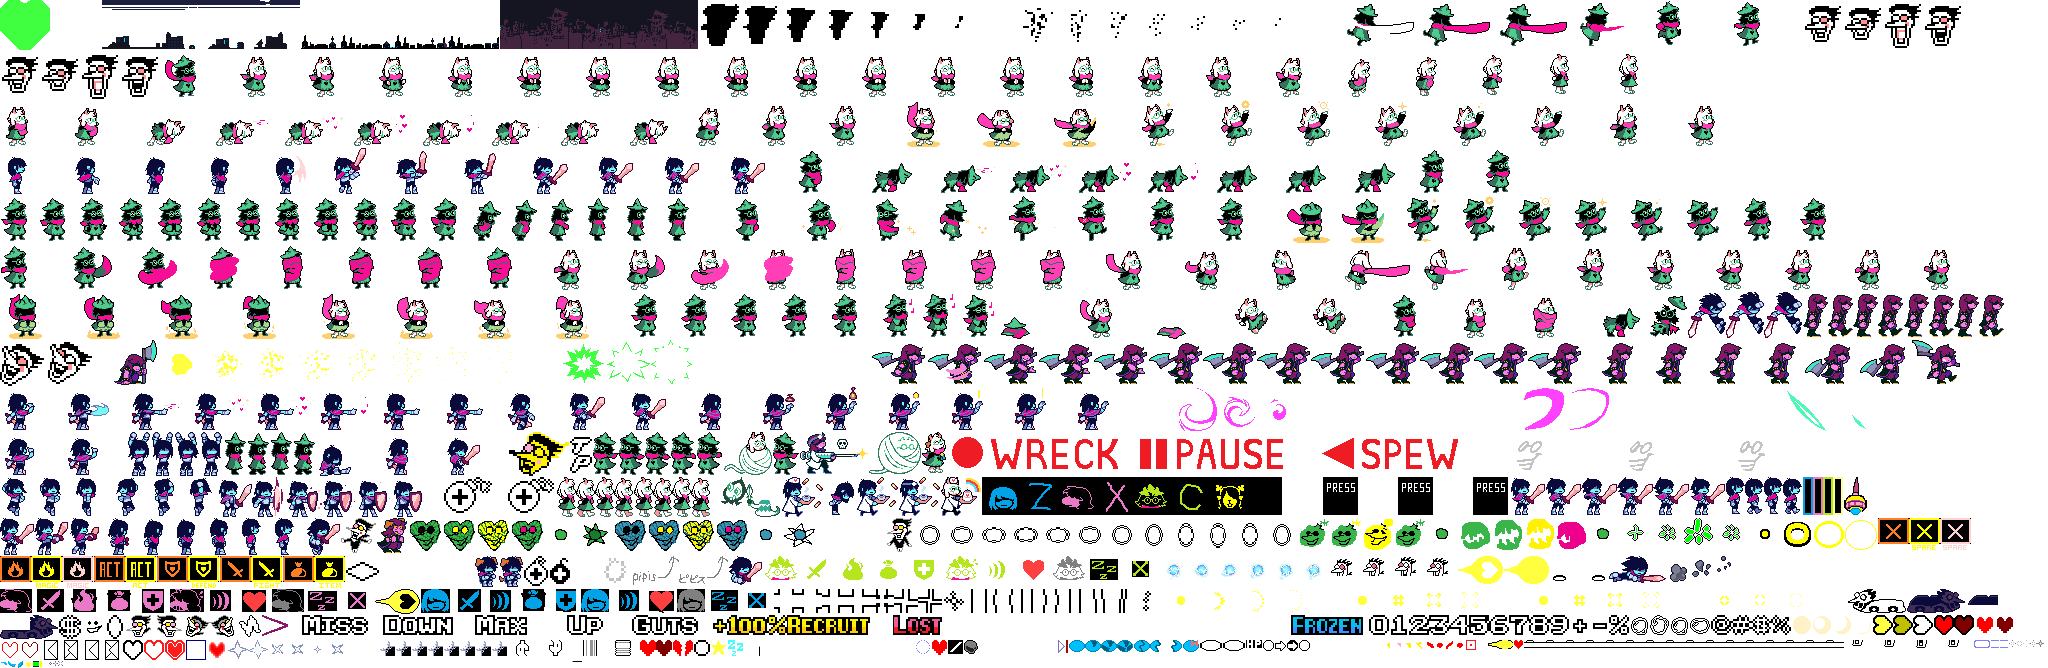
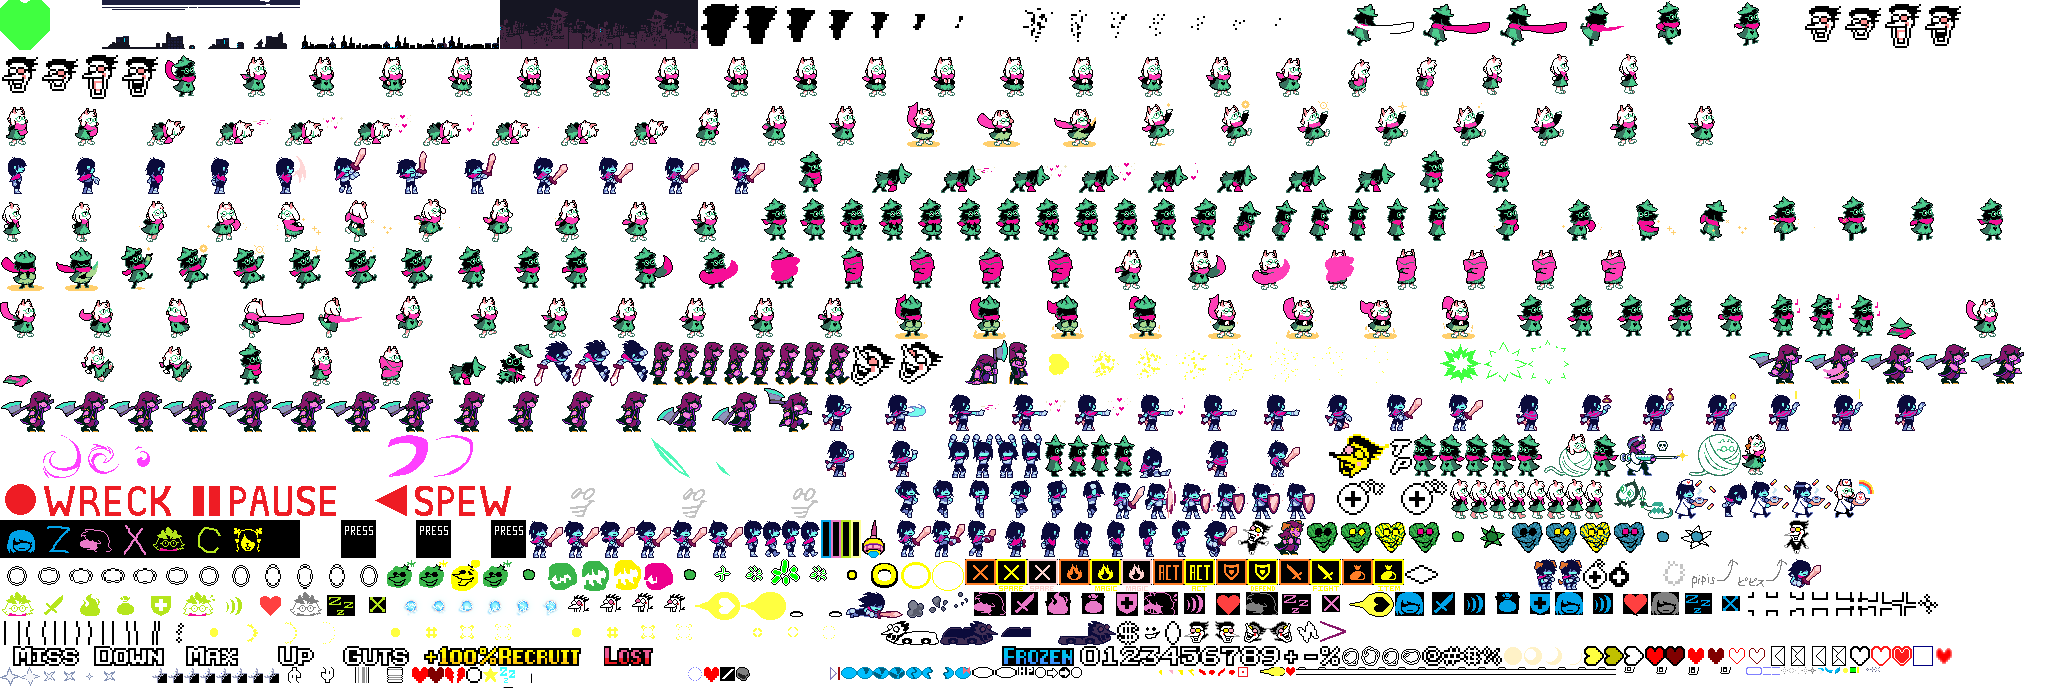
Start the Spamton NEO battle like the original
- Ralsei spins in with his Chapter 2 battle intro (no hat) instead of the
  Chapter 1 sprite, which flashed him dark.
- Susie jumps in with spr_susier_wall, as obj_encounterbasic does in Chapter 2.
- The city, tracks and cars are there from the first frame, Spamton NEO is
  already on screen (the battle reuses him, as scr_battle does), and the party
  starts in their coaster seats with counttimer = 9, as obj_ch2_sceneex2 sets it.
- The cars ride along with their heroes during the intro.

diff --git a/src/battle/setup.js b/src/battle/setup.js
@@ -4,11 +4,11 @@
 import {
   global, G, Instance, defineObject, defineScript, S, instance_create, room_reset, objectExists,
   font_add_sprite_ext,
-} from '../runtime/gm.js?v=20261106195344';
-import { snd_free_all, snd_init } from '../runtime/audio.js?v=20261106195344';
-import { WEAPONS, ARMORS, ARMOR_ELEMENTS, BASE_STATS, getLoadout } from './equipment.js?v=20261106195344';
-import { arr, arr2, view_x, view_y, splitCaller } from './common.js?v=20261106195344';
-import { registerBackground } from './misc.js?v=20261106195344';
+} from '../runtime/gm.js?v=20261106201714';
+import { snd_free_all, snd_init } from '../runtime/audio.js?v=20261106201714';
+import { WEAPONS, ARMORS, ARMOR_ELEMENTS, BASE_STATS, getLoadout } from './equipment.js?v=20261106201714';
+import { arr, arr2, view_x, view_y, splitCaller } from './common.js?v=20261106201714';
+import { registerBackground } from './misc.js?v=20261106201714';
 
 function scr_gamestart() {
   global.chapter = 2;
@@ -397,7 +397,10 @@ defineScript('scr_monster_makeinstance', (m) => {
   g.monster[m] = 1;
   const old = g.monsterinstance[m];
   if (old && old.alive) old.alive = false;
-  const inst = instance_create(g.monstermakex[m], g.monstermakey[m], g.monsterinstancetype[m]);
+  // scr_battle(61, 1, sneo, ...) hands the battle the Spamton NEO already on screen: reuse it.
+  const waiting = G.instances.find(o => o.alive && o.waitingForBattle && o.constructor.objName === g.monsterinstancetype[m]);
+  if (waiting) waiting.waitingForBattle = false;
+  const inst = waiting || instance_create(g.monstermakex[m], g.monstermakey[m], g.monsterinstancetype[m]);
   g.monsterinstance[m] = inst;
   inst.myself = m;
   if (inst.user12) inst.user12();
@@ -478,8 +481,9 @@ class ObjTime extends Instance {
 }
 defineObject('obj_time', ObjTime);
 
-// Overworld spots the party stands on when the battle starts (they jump into battle positions).
-const INTRO_START = [[150, 130], [112, 168], [92, 214]];
+// Where the party sits when the battle starts: obj_ch2_sceneex2 puts the coasters at
+// (1721, 60), (1718, 125) and (1727, 215) with Ralsei's character_offset_x -10.
+const INTRO_START = [[81, 60], [78, 125], [77, 210]]; // the coasters' seats (camera at x 1640)
 
 // Starts a fresh Spamton NEO fight: opts.intro = false skips the encounter transition.
 export function startBattle(opts = {}) {
@@ -495,6 +499,9 @@ export function startBattle(opts = {}) {
     global.tempflag[37] = G.sneoGameovers || 0; // game overs this session (obj_spamton_neo_enemy Other_14)
   }
   instance_create(0, 0, 'obj_time');
+  // The party is still riding the coaster through the city when the battle starts, so the
+  // backdrop (and the cars) are there from the first frame of the intro.
+  instance_create(0, 0, 'obj_ch2_sceneex2').cityscape_alpha = 1;
   if (G.settings?.simplify) global.flag[8] = 1;
   global.introx = INTRO_START.map(p => p[0]);
   global.introy = INTRO_START.map(p => p[1]);
@@ -502,7 +509,13 @@ export function startBattle(opts = {}) {
     S.scr_encountersetup(global.encounterno);
     instance_create(0, 0, 'obj_battlecontroller');
   } else {
-    instance_create(0, 0, 'obj_encounterbasic');
+    const enc = instance_create(0, 0, 'obj_encounterbasic');
+    // obj_ch2_sceneex2 starts the battle with the party already in their cars: counttimer = 9
+    // leaves one frame of the jump before the attack / spin poses, and Spamton NEO is already there.
+    enc.counttimer = 9;
+    const sneo = instance_create(global.monstermakex[0], global.monstermakey[0], global.monsterinstancetype[0]);
+    sneo.myself = 0;
+    sneo.waitingForBattle = true;
   }
   G.battleStarted = G.frame;
 }

diff --git a/src/sneo/enemy.js b/src/sneo/enemy.js
@@ -6,14 +6,14 @@
 import {
   G, global, Instance, defineObject, instance_create, instance_destroy, instance_exists, instancesOf,
   choose, random, irandom, merge_color, draw_sprite_ext, d3d_set_fog, button3_p, snd_play, snd_stop, bgr, S,
-} from './rt.js?v=20261106195344';
-import { first, camerax, cameray, i_ex, callOr, tagParent, snd_play_x } from './common.js?v=20261106195344';
-import { scr_bulletspawner } from './dbullet.js?v=20261106195344';
+} from './rt.js?v=20261106201714';
+import { first, camerax, cameray, i_ex, callOr, tagParent, snd_play_x } from './common.js?v=20261106201714';
+import { scr_bulletspawner } from './dbullet.js?v=20261106201714';
 import {
   objectExists, sprite_get_xoffset, sprite_get_yoffset, point_distance, lerp, draw_set_color, draw_set_alpha,
   draw_line_width, make_color_rgb, point_direction, lengthdir_x, lengthdir_y, draw_circle, random_range, clamp,
-} from '../runtime/gm.js?v=20261106195344';
-import { snd_init, snd_loop, snd_pitch, snd_volume, mus_loop_ext, mus_stop, snd_is_playing } from '../runtime/audio.js?v=20261106195344';
+} from '../runtime/gm.js?v=20261106201714';
+import { snd_init, snd_loop, snd_pitch, snd_volume, mus_loop_ext, mus_stop, snd_is_playing } from '../runtime/audio.js?v=20261106201714';
 
 const snd_free = s => { if (s) mus_stop(s); };
 const sneoInst = () => first('obj_spamton_neo_enemy');
@@ -1417,8 +1417,18 @@ class CoasterHero extends Instance {
     // The car is drawn whether or not its hero is: Rude Buster and the spells hide the hero
     // while their own animation stands in for them.
     const h = first(HERO_OBJ[this.HeroID]);
-    this.visible = !!h;
-    if (!h) return;
+    if (!h) {
+      // The encounter intro (lerpstate 0): the car pulls out of the coaster into its battle spot
+      // while its hero jumps there, so it rides along under obj_encounterbasic's marker.
+      const m = first('obj_encounterbasic')?.c?.[this.HeroID];
+      this.visible = !!m && m.alive;
+      if (!this.visible) return;
+      this.x = m.x + CAR_DX[this.HeroID];
+      this.y = m.y + CAR_Y[this.HeroID] - global.heromakey[this.HeroID];
+      this.depth = m.depth - 1;
+      return;
+    }
+    this.visible = true;
     this.x = h.x + CAR_DX[this.HeroID];
     this.y = CAR_Y[this.HeroID];
     this.depth = [80, 75, 70][this.HeroID];

diff --git a/src/main.js b/src/main.js
@@ -1,13 +1,13 @@
-import { loadAssets, loadAudioInBackground } from './runtime/assets.js?v=20261106195344';
-import { audioInit, audioPreload, audioState } from './runtime/audio.js?v=20261106195344';
-import * as gm from './runtime/gm.js?v=20261106195344';
-import { G } from './runtime/gm.js?v=20261106195344';
-import { setupTouch } from './touch.js?v=20261106195344';
-import { setupFullscreen } from './fullscreen.js?v=20261106195344';
-import { loadSettings, applyVolume } from './settings.js?v=20261106195344';
-import { isPaused, pauseStep, openPause, togglePause, pauseContext } from './pause.js?v=20261106195344';
-import './screens/controls.js?v=20261106195344';
-import './codes.js?v=20261106195344';
+import { loadAssets, loadAudioInBackground } from './runtime/assets.js?v=20261106201714';
+import { audioInit, audioPreload, audioState } from './runtime/audio.js?v=20261106201714';
+import * as gm from './runtime/gm.js?v=20261106201714';
+import { G } from './runtime/gm.js?v=20261106201714';
+import { setupTouch } from './touch.js?v=20261106201714';
+import { setupFullscreen } from './fullscreen.js?v=20261106201714';
+import { loadSettings, applyVolume } from './settings.js?v=20261106201714';
+import { isPaused, pauseStep, openPause, togglePause, pauseContext } from './pause.js?v=20261106201714';
+import './screens/controls.js?v=20261106201714';
+import './codes.js?v=20261106201714';
 
 loadSettings();
 
@@ -96,13 +96,13 @@ function debugKeys() {
 
 async function start() {
   // Registers every ported object and script.
-  await Promise.all([import('./battle/index.js?v=20261106195344'), import('./sneo/index.js?v=20261106195344')]);
+  await Promise.all([import('./battle/index.js?v=20261106201714'), import('./sneo/index.js?v=20261106201714')]);
   const mode = params.has('sandbox') ? 'sandbox' : 'battle';
   if (mode === 'sandbox') {
-    const sb = await import('./debug/sandbox.js?v=20261106195344');
+    const sb = await import('./debug/sandbox.js?v=20261106201714');
     sb.startSandbox(params);
   } else {
-    const title = await import('./screens/title.js?v=20261106195344');
+    const title = await import('./screens/title.js?v=20261106201714');
     title.startTitle();
   }
 }

diff --git a/src/battle/controller.js b/src/battle/controller.js
@@ -7,9 +7,9 @@ import {
   left_p, right_p, up_p, down_p, button1_p, button2_p, string_width, string_hash_to_newline,
   draw_set_color, draw_set_alpha, draw_set_font, draw_set_halign, draw_rectangle, draw_sprite,
   draw_sprite_ext, draw_text, draw_text_colour, draw_text_transformed, draw_line_width,
-} from '../runtime/gm.js?v=20261106195344';
-import { snd_play, snd_volume, snd_pitch, mus_loop_ext } from '../runtime/audio.js?v=20261106195344';
-import { arr, arr2, view_x, view_y, withInst, exists, gmlString, subst, knightEnemy } from './common.js?v=20261106195344';
+} from '../runtime/gm.js?v=20261106201714';
+import { snd_play, snd_volume, snd_pitch, mus_loop_ext } from '../runtime/audio.js?v=20261106201714';
+import { arr, arr2, view_x, view_y, withInst, exists, gmlString, subst, knightEnemy } from './common.js?v=20261106201714';
 
 const sin = Math.sin, cos = Math.cos;
 const g = global;
@@ -1450,7 +1450,8 @@ class EncounterBasic extends Instance {
     const sy = g.introy || g.heromakey;
     this.c[0] = S.scr_dark_marker(sx[0], sy[0], 'spr_kris_sword_jump_down');
     this.count += 1;
-    this.c[1] = S.scr_dark_marker(sx[1], sy[1], 'spr_susier_dark_unhappy');
+    // Chapter 2: Susie's follower sprite is spr_susier_dark, which obj_encounterbasic swaps for spr_susier_wall.
+    this.c[1] = S.scr_dark_marker(sx[1], sy[1], 'spr_susier_wall');
     this.count += 1;
     this.c[2] = S.scr_dark_marker(sx[2], sy[2], 'spr_ralsei_walk_right');
     for (let i = 0; i < this.count + 1; i++) {
@@ -1482,7 +1483,7 @@ class EncounterBasic extends Instance {
           m.image_index = 0;
           if (g.char[i] == 1) m.sprite_index = 'spr_krisb_attack';
           if (g.char[i] == 2) m.sprite_index = g.charweapon[g.char[i]] == 0 ? 'spr_susieb_attack_unarmed' : 'spr_susieb_attack';
-          if (g.char[i] == 3) m.sprite_index = 'spr_ralseib_battleintro';
+          if (g.char[i] == 3) m.sprite_index = 'spr_ralsei_battleintro'; // Chapter 2: no hat
           m.image_speed = 0.5;
         }
         this.fightcon = 2;

diff --git a/src/screens/title.js b/src/screens/title.js
@@ -6,17 +6,17 @@ import {
   draw_sprite_ext, draw_set_color, draw_set_font, draw_set_alpha, draw_rectangle, draw_text, controls,
   draw_set_halign, draw_text_transformed, fa_center, fa_left,
   sprite_get_xoffset, sprite_get_yoffset, draw_line_width,
-} from '../runtime/gm.js?v=20261106195344';
-import { snd_init, snd_play, mus_loop_ext, mus_volume, mus_stop } from '../runtime/audio.js?v=20261106195344';
-import { startBattle } from '../battle/setup.js?v=20261106195344';
-import * as SB from '../debug/sandbox.js?v=20261106195344';
-import { gotoRoom, fadeOut, centerText } from './common.js?v=20261106195344';
-import { saveSettings, applyVolume, getBest } from '../settings.js?v=20261106195344';
-import { HATS, currentHat, drawHat } from '../hats.js?v=20261106195344';
-import { openEquipment } from './equipment.js?v=20261106195344';
-import { openControls, keyName } from './controls.js?v=20261106195344';
-import './gameover.js?v=20261106195344';
-import './ending.js?v=20261106195344';
+} from '../runtime/gm.js?v=20261106201714';
+import { snd_init, snd_play, mus_loop_ext, mus_volume, mus_stop } from '../runtime/audio.js?v=20261106201714';
+import { startBattle } from '../battle/setup.js?v=20261106201714';
+import * as SB from '../debug/sandbox.js?v=20261106201714';
+import { gotoRoom, fadeOut, centerText } from './common.js?v=20261106201714';
+import { saveSettings, applyVolume, getBest } from '../settings.js?v=20261106201714';
+import { HATS, currentHat, drawHat } from '../hats.js?v=20261106201714';
+import { openEquipment } from './equipment.js?v=20261106201714';
+import { openControls, keyName } from './controls.js?v=20261106201714';
+import './gameover.js?v=20261106201714';
+import './ending.js?v=20261106201714';
 
 // Dark panel over the title art, behind the OPTIONS and CONTROLS lists.
 class Panel extends Instance {

diff --git a/src/debug/sandbox.js b/src/debug/sandbox.js
@@ -8,13 +8,13 @@ import {
   instancesOf, event_user, choose, keyboard_check, keyboard_check_pressed, random_set_seed, round, S,
   draw_set_font, draw_set_halign, draw_set_color, draw_set_alpha, draw_rectangle, draw_text, draw_sprite_ext,
   fa_left, fa_center, merge_color, button1_p, vk, draw_self,
-} from '../runtime/gm.js?v=20261106195344';
-import { snd_play, snd_init, mus_loop_ext, mus_stop, snd_stop } from '../runtime/audio.js?v=20261106195344';
-import { audioReady, assets } from '../runtime/assets.js?v=20261106195344';
-import { gotoRoom } from '../screens/common.js?v=20261106195344';
-import { getBest, saveBest } from '../settings.js?v=20261106195344';
-import { drawSoulHat } from '../hats.js?v=20261106195344';
-import { tagParent } from '../sneo/common.js?v=20261106195344';
+} from '../runtime/gm.js?v=20261106201714';
+import { snd_play, snd_init, mus_loop_ext, mus_stop, snd_stop } from '../runtime/audio.js?v=20261106201714';
+import { audioReady, assets } from '../runtime/assets.js?v=20261106201714';
+import { gotoRoom } from '../screens/common.js?v=20261106201714';
+import { getBest, saveBest } from '../settings.js?v=20261106201714';
+import { drawSoulHat } from '../hats.js?v=20261106201714';
+import { tagParent } from '../sneo/common.js?v=20261106201714';
 
 // Spamton NEO's turns in fight order: [rr, difficulty, name, object the attack needs].
 // Only the attacks whose objects are ported are listed (ATTACKS).

diff --git a/src/pause.js b/src/pause.js
@@ -4,10 +4,10 @@ import {
   G, S, defineScript, instance_exists, instancesOf, inputLatch, up_p, down_p, left_p, right_p,
   button1_p, button2_p, pause_p, draw_set_font, draw_set_color, draw_set_alpha, draw_set_halign,
   draw_rectangle, draw_text, draw_sprite_ext, fa_center, fa_left,
-} from './runtime/gm.js?v=20261106195344';
-import { audioSuspend, audioResume } from './runtime/audio.js?v=20261106195344';
-import { saveSettings, applyVolume } from './settings.js?v=20261106195344';
-import { scr_darkbox } from './screens/common.js?v=20261106195344';
+} from './runtime/gm.js?v=20261106201714';
+import { audioSuspend, audioResume } from './runtime/audio.js?v=20261106201714';
+import { saveSettings, applyVolume } from './settings.js?v=20261106201714';
+import { scr_darkbox } from './screens/common.js?v=20261106201714';
 
 let menu = null;
 
@@ -63,10 +63,10 @@ function leave(then) {
 
 async function restart(context) {
   if (context === 'practice') {
-    const { startPractice } = await import('./debug/sandbox.js?v=20261106195344');
+    const { startPractice } = await import('./debug/sandbox.js?v=20261106201714');
     startPractice(G.lastPractice || {});
   } else {
-    const { startBattle } = await import('./battle/setup.js?v=20261106195344');
+    const { startBattle } = await import('./battle/setup.js?v=20261106201714');
     startBattle({ intro: G.settings?.intro !== false });
   }
 }

diff --git a/src/sneo/attacks/finale.js b/src/sneo/attacks/finale.js
@@ -15,16 +15,16 @@ import {
   lengthdir_x, lengthdir_y, draw_self, draw_sprite, draw_sprite_ext, draw_triangle, draw_circle,
   draw_set_colour, draw_get_color, draw_set_alpha, draw_get_alpha,
   snd_play, snd_loop, snd_stop, snd_volume, snd_pitch, bgr,
-} from '../rt.js?v=20261106195344';
+} from '../rt.js?v=20261106201714';
 import {
   first, camerax, cameray, i_ex, eq, ge, defineShared, scr_bullet_init, scr_movetowards, scr_inverselerp,
   scr_ease_in, lerp_ease_in, scr_remapvalue, move_towards_point, snd_play_x, draw_sprite_ext_centerscale,
   room_width, room_height,
-} from '../common.js?v=20261106195344';
-import { BulletParent, CollideBullet, RegularBullet } from '../bullets.js?v=20261106195344';
-import { BasicBulletSneo, YHeartShot } from '../shots.js?v=20261106195344';
-import { SneoBulletController } from './heads.js?v=20261106195344';
-import { SpamtonNeoEnemy, STEP_HOOKS } from '../enemy.js?v=20261106195344';
+} from '../common.js?v=20261106201714';
+import { BulletParent, CollideBullet, RegularBullet } from '../bullets.js?v=20261106201714';
+import { BasicBulletSneo, YHeartShot } from '../shots.js?v=20261106201714';
+import { SneoBulletController } from './heads.js?v=20261106201714';
+import { SpamtonNeoEnemy, STEP_HOOKS } from '../enemy.js?v=20261106201714';
 
 const sneo = () => first('obj_spamton_neo_enemy');
 const heart = () => first('obj_heart');

diff --git a/src/sneo/attacks/face.js b/src/sneo/attacks/face.js
@@ -9,15 +9,15 @@ import {
   global, Instance, defineObject, instance_create, instance_destroy, instance_find, instancesOf,
   random, random_range, merge_color, point_direction, lerp, clamp, draw_self, draw_sprite_ext,
   snd_play, bgr, sprite_exists,
-} from '../rt.js?v=20261106195344';
+} from '../rt.js?v=20261106201714';
 import {
   first, camerax, cameray, i_ex, eq, lt, defineShared, scr_bullet_init, scr_bullet_inherit, scr_darksize,
   scr_shakescreen, scr_remapvalue, scr_movetowards, scr_ease_in, scr_ease_out,
-} from '../common.js?v=20261106195344';
-import { RegularBullet } from '../bullets.js?v=20261106195344';
-import { BasicBulletSneo } from '../shots.js?v=20261106195344';
-import { SneoBulletController } from './heads.js?v=20261106195344';
-import { STEP_HOOKS } from '../enemy.js?v=20261106195344';
+} from '../common.js?v=20261106201714';
+import { RegularBullet } from '../bullets.js?v=20261106201714';
+import { BasicBulletSneo } from '../shots.js?v=20261106201714';
+import { SneoBulletController } from './heads.js?v=20261106201714';
+import { STEP_HOOKS } from '../enemy.js?v=20261106201714';
 
 const sneo = () => first('obj_spamton_neo_enemy');
 const heart = () => first('obj_heart');

diff --git a/src/sneo/attacks/phone.js b/src/sneo/attacks/phone.js
@@ -13,14 +13,14 @@ import {
   random, random_range, irandom, lerp, lengthdir_x, lengthdir_y, point_direction, point_distance, merge_color, bgr,
   draw_self, draw_sprite_ext, draw_set_alpha, draw_set_color, draw_line_width, d3d_set_fog, button1_p, button3_h,
   snd_play, snd_volume, S,
-} from '../rt.js?v=20261106195344';
+} from '../rt.js?v=20261106201714';
 import {
   first, camerax, cameray, callOr, room_width, room_height, scr_bullet_init, scr_bullet_inherit, scr_ease_in,
   scr_ease_out, snd_play_pitch,
-} from '../common.js?v=20261106195344';
-import { BulletParent, CollideBullet } from '../bullets.js?v=20261106195344';
-import { BasicBulletSneo, scr_afterimage_cut } from '../shots.js?v=20261106195344';
-import { SneoBulletController } from './heads.js?v=20261106195344';
+} from '../common.js?v=20261106201714';
+import { BulletParent, CollideBullet } from '../bullets.js?v=20261106201714';
+import { BasicBulletSneo, scr_afterimage_cut } from '../shots.js?v=20261106201714';
+import { SneoBulletController } from './heads.js?v=20261106201714';
 
 const sneo = () => first('obj_spamton_neo_enemy');
 const isphase = callOr('scr_isphase', p => (p === 'bullets' ? global.mnfight === 2 : false));

diff --git a/src/battle/text.js b/src/battle/text.js
@@ -5,17 +5,17 @@ import {
   instance_number, withObj, random, button1_p, button2_h, string_length, string_char_at,
   string_insert, string_delete, draw_set_font, draw_set_color, draw_get_color, draw_set_alpha, draw_text,
   draw_text_transformed, draw_text_color, draw_rectangle, draw_sprite_ext, draw_self, button3_h, instancesOf,
-} from '../runtime/gm.js?v=20261106195344';
-import { snd_play } from '../runtime/audio.js?v=20261106195344';
+} from '../runtime/gm.js?v=20261106201714';
+import { snd_play } from '../runtime/audio.js?v=20261106201714';
 
 const sin = Math.sin;
-import { fontName, splitCaller, view_x, view_y } from './common.js?v=20261106195344';
+import { fontName, splitCaller, view_x, view_y } from './common.js?v=20261106201714';
 
 // Text sounds that exist in this build; the others are silent.
 const TEXTSND = {
   snd_text: 'snd_text', snd_txtsus: 'snd_txtsus', snd_txtral: 'snd_txtral', snd_txtjok: 'snd_txtjok',
 };
-import { G } from '../runtime/gm.js?v=20261106195344';
+import { G } from '../runtime/gm.js?v=20261106201714';
 const tsnd = n => TEXTSND[n] ?? null;
 
 // scr_textsetup(font, color, x, y, charline, shake, rate, sound, hspace, vspace, special)

diff --git a/src/sneo/attacks/heart.js b/src/sneo/attacks/heart.js
@@ -9,14 +9,14 @@ import {
   global, Instance, defineObject, instance_create, instance_destroy, instancesOf, instance_number, objectExists,
   choose, random, random_range, lerp, lengthdir_x, lengthdir_y, point_direction, draw_sprite_ext, draw_self,
   draw_set_color, draw_line_width, snd_play, snd_volume, bgr,
-} from '../rt.js?v=20261106195344';
+} from '../rt.js?v=20261106201714';
 import {
   first, camerax, cameray, callOr, scr_bullet_init, scr_lerpvar, scr_marker, scr_script_delayed, scr_doom,
   lerp_ease_in, lerp_ease_out,
-} from '../common.js?v=20261106195344';
-import { BasicBulletSneo, scr_afterimage_cut } from '../shots.js?v=20261106195344';
-import { POSES } from '../enemy.js?v=20261106195344';
-import { SneoBulletController } from './heads.js?v=20261106195344';
+} from '../common.js?v=20261106201714';
+import { BasicBulletSneo, scr_afterimage_cut } from '../shots.js?v=20261106201714';
+import { POSES } from '../enemy.js?v=20261106201714';
+import { SneoBulletController } from './heads.js?v=20261106201714';
 
 const sneo = () => first('obj_spamton_neo_enemy');
 const ctrl = () => first('obj_sneo_bulletcontroller');
